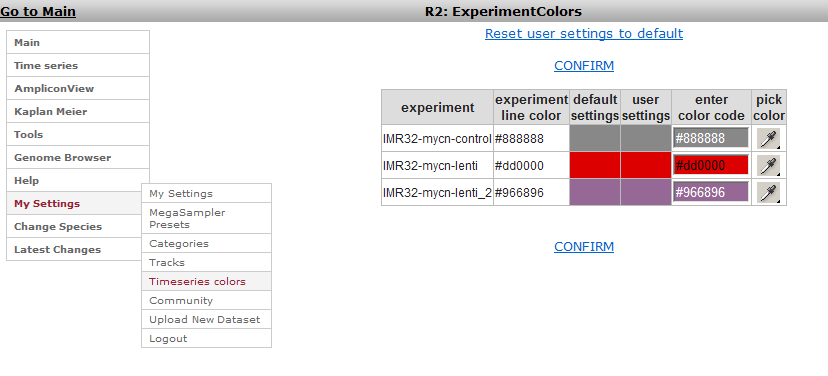
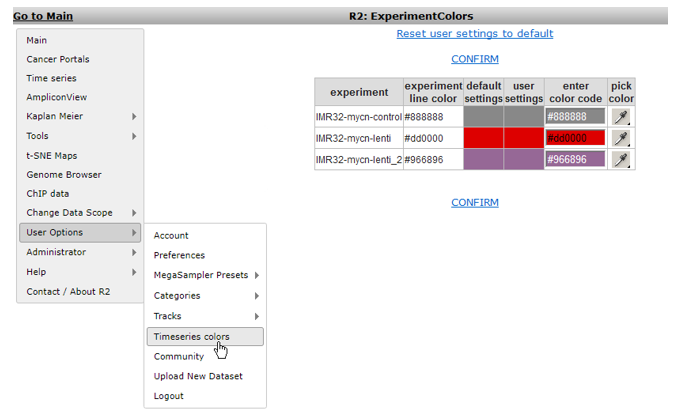
Hfst 2 Datasets

diff --git a/docs/Adapting_R2.md b/docs/Adapting_R2.md
@@ -30,15 +30,15 @@ Scope
 Step 1: Adapt your settings
 ---------------
 
-1.  Personalizing R2 starts with selecting the My Settings menu item
-    (Figure 1). First item under there is the general 'My Settings';
-    choose that.
+1.  Personalizing R2 starts with selecting the 'User Options' menu item
+    (Figure 1). When you hover over this item, you see a submenu. In 'Account you can chose a different password or change your personal details.   
+    In 'Preferences' you can set some generic R2 analysis and visualization options, click on this item.
     
 	![](_static/images/AdaptingR2_Mysettings.png "Figure    1: Personalizing R2: the My Settings    menu-item")
 	
 	[**Figure    1: Personalizing R2: the My Settings    menu-item**](_static/images/AdaptingR2_Mysettings.png)
 	
-2.  In the User Defined Settings window several parameters for analyses
+2.  In the Preferences window several parameters for analyses
     in R2 can be adapted to your preferences. For most analyses these
     are set to appropriate values, but of course you want to set your
     favorite dataset here!
@@ -47,20 +47,18 @@ Step 1: Adapt your settings
 	
 	[**Figure    2: The User Defined Settings window; most parameters are    appropriate; you want to change your preferential    dataset however.**](_static/images/AdaptingR2_Userdefined.png)
 	
-3.  Next item in the My Settings submenu are the 'Megasampler Presets'
-    (Figure 1), these are of relevance when you've built a specific
-    Preset in an analysis Across Datasets. ( (chapter: Multiple datasets
+3.  Next item in the User Options submenu (Figure 1) are the 'Megasampler Presets'
+    . These are of relevance when you've built a specific
+    Preset in an analysis Across Datasets ( see chapter: Multiple datasets
     overview with Megasampler).
-4.  The 'Upload New Dataset'-, 'Categories'-, 'Tracks'- and
-    'Communities'-menu-items will be elaborated further upon later in
-    this tutorial. The 'Timeseries colors' allows you to set the colors
-    for the graphs of specific experiments in a series (Figure 3).
+4.  The 'Timeseries colors' allows you to set the colors
+    for the graphs of specific experiments in a series (Figure 3). 
+    
+    ![](_static/images/AdaptingR2_SettingsTime.png "Figure3: Setting time seriescolors")
+    	
+    [**Figure3: Setting time seriescolors**](_static/images/AdaptingR2_SettingsTime.png)
 
-	![](_static/images/AdaptingR2_SettingsTime.png "Figure3: Setting time seriescolors")
-	
-	[**Figure3: Setting time seriescolors**](_static/images/AdaptingR2_SettingsTime.png)
-	
-
+    The other menu-items 'Upload New Dataset', 'Categories', 'Tracks' and 'Communities' will be discussed in steps 2 - 6 of this tutorial.
 
 
 
